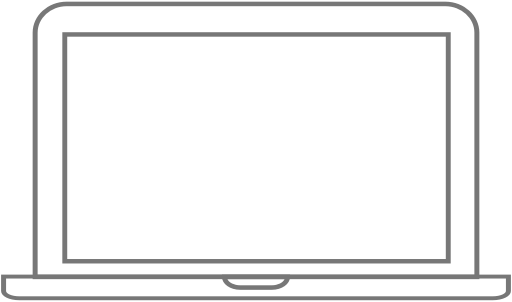
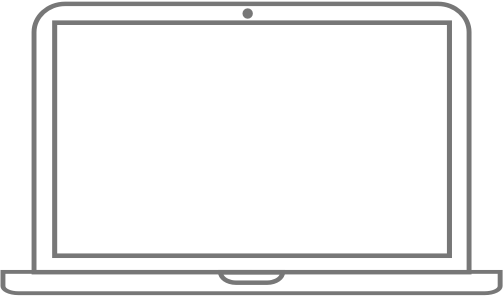
laptop image has webcam

Changed region(s): [[0.0, 0.0304, 1.0, 1.0]]

diff --git a/client/css/app.css b/client/css/app.css
@@ -241,12 +241,14 @@ code {
 .term.min .chrome {
   border: 0 none; }
 
-.recording-light {
-  background: #DF7065;
-  display: inline-block;
-  width: 8px;
-  height: 8px;
-  border-radius: 100%; }
+.light {
+  background: #5BCC8B;
+  position: absolute;
+  width: 7px;
+  height: 7px;
+  border-radius: 100%;
+  top: -25px;
+  left: 40px; }
 
 .blink_me {
   -webkit-animation-name: blinker;
@@ -386,18 +388,43 @@ code {
   -moz-animation-fill-mode: both;
   animation-fill-mode: both; }
 
+@-webkit-keyframes shake {
+  0%, 100% {
+    -webkit-transform: translate3d(0, 0, 0); }
+  10%, 30%, 50%, 70%, 90% {
+    -webkit-transform: translate3d(-10px, 0, 0); }
+  20%, 40%, 60%, 80% {
+    -webkit-transform: translate3d(10px, 0, 0); } }
+@-moz-keyframes shake {
+  0%, 100% {
+    -moz-transform: translate3d(0, 0, 0); }
+  10%, 30%, 50%, 70%, 90% {
+    -moz-transform: translate3d(-10px, 0, 0); }
+  20%, 40%, 60%, 80% {
+    -moz-transform: translate3d(10px, 0, 0); } }
 @keyframes shake {
   0%, 100% {
     -webkit-transform: translate3d(0, 0, 0);
+    -moz-transform: translate3d(0, 0, 0);
+    -ms-transform: translate3d(0, 0, 0);
+    -o-transform: translate3d(0, 0, 0);
     transform: translate3d(0, 0, 0); }
   10%, 30%, 50%, 70%, 90% {
     -webkit-transform: translate3d(-10px, 0, 0);
+    -moz-transform: translate3d(-10px, 0, 0);
+    -ms-transform: translate3d(-10px, 0, 0);
+    -o-transform: translate3d(-10px, 0, 0);
     transform: translate3d(-10px, 0, 0); }
   20%, 40%, 60%, 80% {
     -webkit-transform: translate3d(10px, 0, 0);
+    -moz-transform: translate3d(10px, 0, 0);
+    -ms-transform: translate3d(10px, 0, 0);
+    -o-transform: translate3d(10px, 0, 0);
     transform: translate3d(10px, 0, 0); } }
 .shake {
-  animation-name: shake; }
+  -webkit-animation: shake 2.3s;
+  -moz-animation: shake 2.3s;
+  animation: shake 2.3s; }
 
 .connection:nth-of-type(1) {
   position: absolute;

diff --git a/client/scss/app.scss b/client/scss/app.scss
@@ -363,14 +363,19 @@ code {
   border:0 none
 }
 
-.recording-light {
-  background: #DF7065;
-  display: inline-block;
-  // vertical-align: middle;
-  width: 8px;
-  height: 8px;
+.light {
+  background: #5BCC8B;
+  position: absolute;
+  width: 7px;
+  height: 7px;
   border-radius: 100%;
+  top: -25px;
+  left: 40px;
 }
+
+// .video-screen {
+//   border: solid red 1px;
+// }
 
 .blink_me {
   @include animation-name(blinker);
@@ -457,25 +462,22 @@ code {
 }
 
 
-@keyframes shake {
+@include keyframes(shake) {
   0%, 100% {
-    -webkit-transform: translate3d(0, 0, 0);
-            transform: translate3d(0, 0, 0);
+    @include transform(translate3d(0, 0, 0));
   }
 
   10%, 30%, 50%, 70%, 90% {
-    -webkit-transform: translate3d(-10px, 0, 0);
-            transform: translate3d(-10px, 0, 0);
+    @include transform(translate3d(-10px, 0, 0));
   }
 
   20%, 40%, 60%, 80% {
-    -webkit-transform: translate3d(10px, 0, 0);
-            transform: translate3d(10px, 0, 0);
+    @include transform(translate3d(10px, 0, 0));
   }
 }
 
 .shake {
-          animation-name: shake;
+  @include animation(shake 2.3s);
 }
 
 

diff --git a/client/partials/home.html b/client/partials/home.html
@@ -1,6 +1,6 @@
 <div class="hero">
   <div class="row">
-    <div class="large-12 columns intro-text">
+    <div class="large-12 columns intro-text shake">
       ICECOMM BETA IS HERE
     </div>
     <div class="large-12 columns sub-intro-text">
